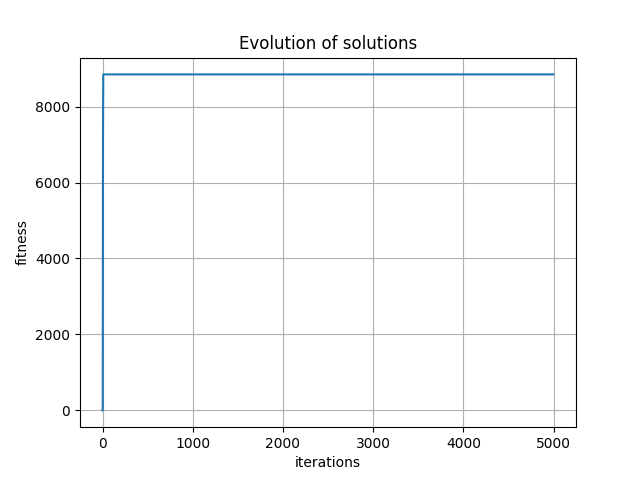
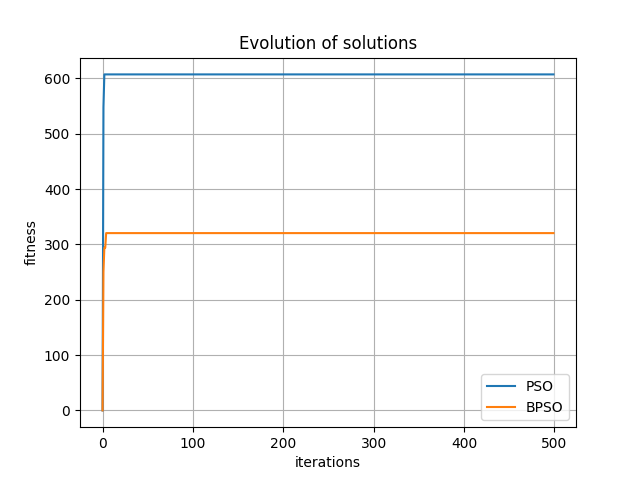
pso

diff --git a/main.py b/main.py
@@ -8,6 +8,15 @@ def sigmoid(n):
     return 1 / (1 + math.exp(-n))
 
 
+def save_img_plot(file_name):
+    if not (
+            file_name == ''):  # If the variable named 'file_name' is not empty, save the file with that name in png format.
+        file_name = file_name + ".png"
+        plt.savefig(file_name)
+    # plt.show()
+    plt.close()
+
+
 # -------- COST FUNCTION --------
 # function to optimize (maximize profit)
 def maximize(items):
@@ -41,6 +50,9 @@ def check_weight(items, element):
 # -------- PARTICLE --------
 class Particle:
     def __init__(self, x):
+        """
+        :param x: vector of initial position of particle
+        """
         self.position = []  # particle position
         self.velocity = []  # particle velocity
         self.personal_best = []  # best position individual
@@ -63,7 +75,7 @@ class Particle:
 
     def update_velocity(self, global_best):
         w = 0.9  # constant inertia weight (how much to weigh the previous velocity)
-        c1 = 1  # cognitive constant (particle)
+        c1 = 1.2  # cognitive constant (particle)
         c2 = 1.9  # social constant (swarm)
 
         for i in range(num_dimensions):  # process each particle
@@ -73,47 +85,59 @@ class Particle:
             cognitive = c1 * r1 * (self.personal_best[i] - self.position[i])
             social = c2 * r2 * (global_best[i] - self.position[i])
             self.velocity[i] = w * self.velocity[i] + cognitive + social
-            # --- BPSO ---
-            # self.velocity[i] = self.velocity[i] + cognitive + social
 
-    def update_position(self, bounds):
+    def update_position(self, bounds, type_pso):
         for i in range(num_dimensions):  # process each particle
-            # # _________ BPSO _______#
-            # # If velocity is too high, the particle can fly over the best value,
-            # # if is too low, the particle can’t make enough exploration. Velocity falls into the local optimum.
-            # max_bounds = (bounds[i][1] - bounds[i][0])
-            # # limit the range of current velocity
-            # if self.velocity[i] < -max_bounds:
-            #     self.velocity[i] = -max_bounds
-            # elif self.velocity[i] > max_bounds:
-            #     self.velocity[i] = max_bounds
-            #
-            # # compute new position using new velocity
-            # self.position[i] += self.velocity[i]
-            #
-            # if self.position[i] < sigmoid(self.velocity[i]):
-            #     self.position[i] = 1
-            # else:
-            #     self.position[i] = 0
+            if type_pso == "BPSO":
+                # _________ BPSO _______#
+                # If velocity is too high, the particle can fly over the best value,
+                # if is too low, the particle can’t make enough exploration. Velocity falls into the local optimum.
+                max_bounds = (bounds[i][1] - bounds[i][0])
+                # limit the range of current velocity
+                if self.velocity[i] < -max_bounds:
+                    self.velocity[i] = -max_bounds
+                elif self.velocity[i] > max_bounds:
+                    self.velocity[i] = max_bounds
 
-            ##### PSO
-            self.position[i] += self.velocity[i]
-            # check if current position it's out of bound
-            if self.position[i] > bounds[i][1]:
-                # If the position is above the upper limit value, pull to the upper limit value
-                self.position[i] = bounds[i][1]
-            elif self.position[i] < bounds[i][0]:
-                # If the position is below the lower limit value, pull down to the lower limit value
-                self.position[i] = bounds[i][0]
-            else:
-                self.position[i] = round(self.position[i])
+                # compute new position using new velocity
+                self.position[i] += self.velocity[i]
+
+                if self.position[i] < sigmoid(self.velocity[i]):
+                    self.position[i] = 1
+                else:
+                    self.position[i] = 0
+            elif type_pso == "PSO":
+                # ### ----- PSO ------
+                self.position[i] += self.velocity[i]
+                # check if current position it's out of bound
+                if self.position[i] > bounds[i][1]:
+                    # If the position is above the upper limit value, pull to the upper limit value
+                    self.position[i] = bounds[i][1]
+                elif self.position[i] < bounds[i][0]:
+                    # If the position is below the lower limit value, pull down to the lower limit value
+                    self.position[i] = bounds[i][0]
+                else:
+                    self.position[i] = round(
+                        self.position[i])  # position of particles: if rand(0,1)<0.5 --> x=0  else x=1
 
 
 # -------- PSO --------
 class PSO:
     fitness, iterations, step_weight, step_profit, global_best, err_global_best = [], [], [], [], [], -1
 
-    def __init__(self, cost_func, x, bounds, num_particles, max_iter, verbose=False):
+    def __init__(self, cost_func, x, bounds, num_particles, max_iter, type_pso, verbose=False):
+        """
+        :param cost_func: cost function for PSO
+        :param x: vector of initial position of particle
+        :param bounds: bounds for position of particle [lower limit - upper limit]
+        :param num_particles: numbers of particle
+        :param max_iter:  maximum number of iterations for the execution of PSO
+        :param verbose: (default=False) print global best solution for each iteration
+        :type verbose: bool
+        :param type_pso: "PSO" or "BPSO"
+        :type type_pso: str
+        """
+
         global num_dimensions
 
         num_dimensions = len(x)  # numbers of items
@@ -123,13 +147,13 @@ class PSO:
         # establish the swarm
         swarm = []
         for i in range(num_particles):
-            swarm.append(Particle(x))
+            swarm.append(Particle(x))  # x = array position of particle
 
         # begin optimization loop
         iteration = 0
-        cnt_global_best = 0
-        while iteration < max_iter and cnt_global_best != 10:
-            global_best_prev = self.global_best
+        cnt_global_best = 0  # TODO: 10 iter
+        while iteration < max_iter:  # and cnt_global_best != 10:
+            global_best_prev = self.global_best  # save previus global best
 
             #  evaluate fitness of particles in swarm
             for j in range(num_particles):
@@ -147,11 +171,11 @@ class PSO:
             # update velocities and position
             for j in range(num_particles):
                 swarm[j].update_velocity(self.global_best)
-                swarm[j].update_position(bounds)
+                swarm[j].update_position(bounds, type_pso)
 
             total_profit = 0
             total_weight = 0
-            for i in range(num_particles):
+            for i in range(len(x)):
                 total_profit += self.global_best[i] * value[i]
                 total_weight += self.global_best[i] * weight[i]
 
@@ -165,69 +189,76 @@ class PSO:
             iteration += 1
 
     # -------- result --------
-    def Result(self):
+    def result(self):
         # print final results
-        print('\nFINAL RESULTS:')
-        print(f'global best -> {self.global_best}')
-        print(f'err global best -> {self.err_global_best}')
         total_profit = 0
         total_weight = 0
         for i in range(len(self.global_best)):
-            # print("object ", i, ': ', self.global_best[i], sep='')
+            # print("object ", i, ': ', self.global_best[i], ,'')
             # print(object[i], ': ', self.global_best[i], sep='')
             total_profit += self.global_best[i] * value[i]
             total_weight += self.global_best[i] * weight[i]
-        print('-' * 20, '\n# obj: ', obj_num, '\nmax weight: ', max_weight)
-        print('\nProfit: ', total_profit, ',\nWeight (Kg): ', total_weight, '\n', '-' * 20, sep='')
+        print(f'global best -> {self.global_best}')
+        # print(f'err global best -> {self.err_global_best}')
+        print('Profit: ', total_profit, '\nWeight: ', total_weight, '\n', '-' * 20, sep='')
 
     # Plotting the results with plot [If we do not want to save the result image to the computer, the parameter named 'file_name' must remain empty!] ...
     def plot_result(self, file_name=''):
-        plt.plot(self.step_weight, self.step_profit)
-        plt.xlabel('Weight (kg)')
+        x1, x2, y1, y2 = [], [], [], []
+        for i in range(len(self.step_weight)):
+            if i < len(self.step_weight)/2:
+                x1.append(self.step_weight[i])
+                y1.append(self.step_profit[i])
+            else:
+                x2.append(self.step_weight[i])
+                y2.append(self.step_profit[i])
+        plt.plot(x1, y1, label="PSO")
+        plt.plot(x2, y2, label="BPSO")
+        plt.xlabel('Weight')
         plt.ylabel('Profit')
-        plt.title('Profit vs Weight')
+        plt.title('PSO vs BPSO')
+        plt.legend()
         plt.grid(True)
-
-        if not (
-                file_name == ''):  # If the variable named 'file_name' is not empty, save the file with that name in png format.
-            file_name = file_name + ".png"
-            plt.savefig(file_name)
-
-        # plt.show()
-        plt.close()
+        save_img_plot(file_name)
 
     def plot_evolution(self, file_name=''):
-        plt.plot(self.iterations, self.fitness)
+        x1, x2, y1, y2 = [], [], [], []
+        for i in range(len(self.iterations)):
+            if i < len(self.iterations) / 2:
+                x1.append(self.iterations[i])
+                y1.append(self.fitness[i])
+            else:
+                x2.append(self.iterations[i])
+                y2.append(self.fitness[i])
+        plt.plot(x1, y1, label="PSO")
+        plt.plot(x2, y2, label="BPSO")
         plt.xlabel('iterations')
         plt.ylabel('fitness')
         plt.title('Evolution of solutions')
+        plt.legend()
         plt.grid(True)
-
-        if not (
-                file_name == ''):  # If the variable named 'file_name' is not empty, save the file with that name in png format.
-            file_name = file_name + ".png"
-            plt.savefig(file_name)
-
-        # plt.show()
-        plt.close()
+        save_img_plot(file_name)
 
 
 # -------- MAIN --------
 def main():
-    global value, weight, max_weight, obj_num
+    global value, weight, max_weight, obj_num, optimum
     num = input("insert number from 1 to 10: ")
     # print('profit, weight')
     dataset = d.data(True, int(num) - 1)
     value = []
     weight = []
+
     for i in dataset:
         if i == 0:
             max_weight = dataset[i][1]
             obj_num = dataset[i][0]
-        else:
+        elif i != len(dataset) - 1:
             # print(dataset[i][0], "\t\t", dataset[i][1])
             value.append(dataset[i][0])
             weight.append(dataset[i][1])
+        else:
+            optimum = dataset[i][1]
 
     # -------- EXECUTE --------
     initial = []
@@ -242,33 +273,44 @@ def main():
     if not isinstance(choice, bool):
         print("error bool")
 
-    # initial position of particles  if rand(0,1)<0.5 --> x=0  else x=1
-    # for i in range(len(weight)):
-    #     initial.append(round(random.uniform(0, 1)))  # [x1, x2, ...]
-
     if not choice:
         print('\n[lower limit - upper limit]')
         for i in range(len(weight)):
             initial.append(0)
             bounds.append((initial[i], math.floor(max_weight / weight[i])))  # [(x1_min,x1_max),(x2_min,x2_max)...]
             print('object ', i, ': [', bounds[i][0], '-', bounds[i][1], ']', sep='')
-    else:
-        no_rep = [1 for _ in range(length)]
+    else:  # Knapsack 0-1
+        upper_bound = [1 for _ in range(length)]  # upper bound
         for i in range(len(weight)):
+            # # initial position of particles  if rand(0,1)<0.5 --> x=0  else x=1
+            # initial.append(round(random.uniform(0, 1)))  # [x1, x2, ...]
             initial.append(0)
-            bounds.append((initial[i], no_rep[i]))
+            bounds.append((initial[i], upper_bound[i]))
             # print('object', i, ': ', bounds[i][0], '-', bounds[i][1], sep='')
 
     print('There are a total of', length, 'variable...\n')
 
     max_iter = int(input("Insert max of iteration: "))
-    # num_particles = int(input("Insert number of particles: "))
+    num_particles = int(input("Insert number of particles: "))
 
-    pso = PSO(maximize, initial, bounds, length, max_iter, verbose=False)
-    pso.Result()
-    pso.plot_result(file_name="pso_result")
+    print('-' * 20, '\n# obj: ', obj_num, '\nmax weight: ', max_weight, '\noptimum profit to achieve: ', optimum)
+    print('-' * 20, '\nFINAL RESULTS:')
+
+    pso = PSO(maximize, initial, bounds, num_particles, max_iter, "PSO", verbose=False)
+    print('_' * 10, 'PSO', '_' * 10, sep='')
+    pso.result()
+    # pso.plot_result(file_name="pso_result")
+    # pso.plot_evolution(file_name="pso_evolution")
+
+    pso = PSO(maximize, initial, bounds, num_particles, max_iter, "BPSO", False)
+    print('_' * 10, 'BPSO', '_' * 10, sep='')
+    pso.result()
+
+    pso.plot_result(file_name="result")
     pso.plot_evolution(file_name="evolution")
 
 
 if __name__ == '__main__':
     main()
+# TODO: large_scale
+# TODO: fix plotting

diff --git a/dataset.py b/dataset.py
@@ -1,6 +1,12 @@
 def data(low=True, num=0):
+    """
+    :param low:(default=True) choose low dimensional instance, False coose large scale dimensional istance
+    :param num: number (1 to 10) of the chosen instance
+    :return: dataset of items fro testing Knapsack PSO
+    """
     path = "instances_01_KP"
-    low_dim = ['f1_l-d_kp_10_269', 'f2_l-d_kp_20_878', 'f3_l-d_kp_4_20', 'f4_l-d_kp_4_11', 'f5_l-d_kp_15_375', 'f6_l-d_kp_10_60', 'f7_l-d_kp_7_50', 'f8_l-d_kp_23_10000', 'f9_l-d_kp_5_80', 'f10_l-d_kp_20_879']
+    low_dim = ['f1_l-d_kp_10_269', 'f2_l-d_kp_20_878', 'f3_l-d_kp_4_20', 'f4_l-d_kp_4_11', 'f5_l-d_kp_15_375',
+               'f6_l-d_kp_10_60', 'f7_l-d_kp_7_50', 'f8_l-d_kp_23_10000', 'f9_l-d_kp_5_80', 'f10_l-d_kp_20_879']
     large_scale = [
         "knapPI_1_100_1000_1",
         "knapPI_1_200_1000_1",
@@ -9,26 +15,45 @@ def data(low=True, num=0):
         "knapPI_1_2000_1000_1",
         "knapPI_1_5000_1000_1",
         "knapPI_1_10000_1000_1"]
+    opt_path = "-optimum/"
 
     try:
         dataset = {}
         i = 0
         if low:
-            fp = open(path + '/low-dimensional/'+low_dim[num], "r")
+            fp = open(path + '/low-dimensional/' + low_dim[num], "r")
             for row in fp:
                 x = row.strip().split(" ")
-                dataset[i] = int(x[0]), int(x[1])
+                try:
+                    dataset[i] = int(x[0]), int(x[1])
+                except ValueError:
+                    dataset[i] = float(x[0]), float(x[1])
                 i += 1
+            with open(path + '/low-dimensional' + opt_path + low_dim[num], "r") as fp_opt:
+                first_line = fp_opt.readline()
+                try:
+                    opt = int(first_line.strip())
+                except ValueError:
+                    opt = float(first_line.strip())
+                dataset[i] = "opt", opt
         else:
-            fp = open(path + '/large_scale/'+large_scale[num], "r")
+            fp = open(path + '/large_scale/' + large_scale[num], "r")
             for row in fp:
                 x = row.strip().split(" ")
                 if int(x[0]) != 0:
                     dataset[i] = int(x[0]), int(x[1])
+                else:
+                    with open(path + '/large_scale' + opt_path + large_scale[num], "r") as fp_opt:
+                        first_line = fp_opt.readline()
+                        try:
+                            opt = int(first_line.strip())
+                        except ValueError:
+                            opt = float(first_line.strip())
+                        dataset[i] = "opt", opt
                 i += 1
     except IOError as err:
         print("Error:", err)
     finally:
         fp.close()
+        fp_opt.close()
     return dataset
-
